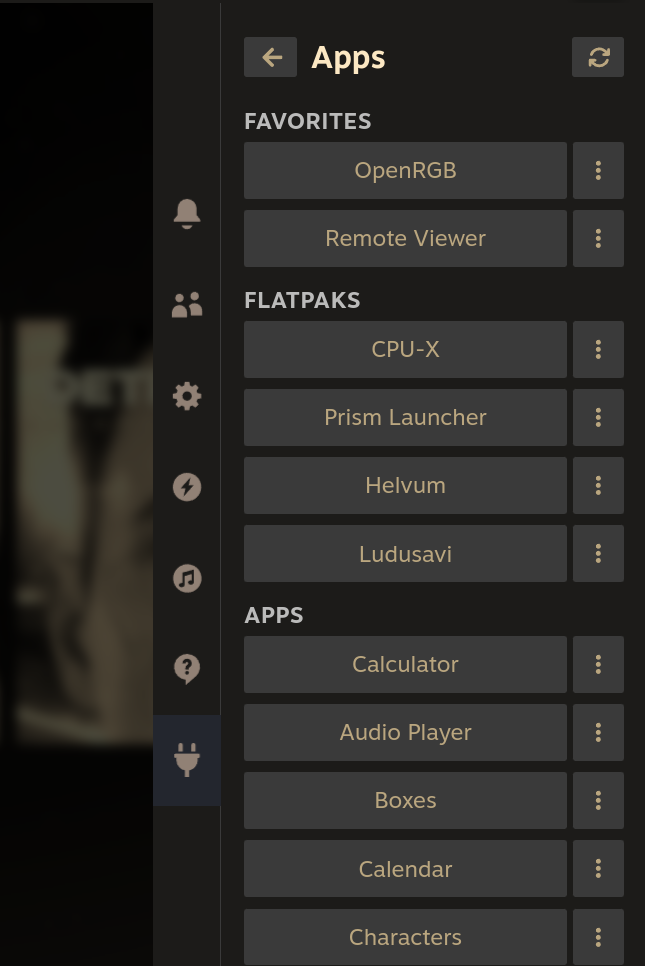
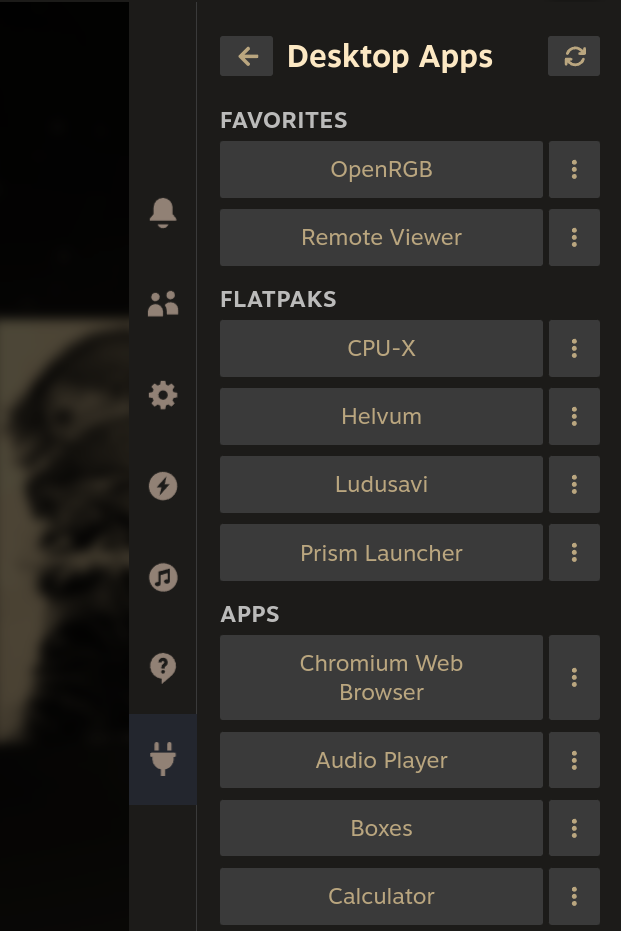
rename to decky-desktop-apps

diff --git a/src/index.tsx b/src/index.tsx
@@ -187,7 +187,7 @@ function Content() {
             );
 
             if (res2.ok)
-                toaster.toast({title: "Apps", body: "Shortcut created", critical: true});
+                toaster.toast({title: "Desktop Apps", body: "Shortcut created", critical: true});
             else
                 await tryOrToastAssert(removeShortcut, "Failed to remove new shortcut!", assertBool, res.result!.appId);
         } else if (!add && app.shortcut != null) {
@@ -233,7 +233,7 @@ function TitleView() {
     const [disabled, setDisabled] = useState(false);
     return (
         <Focusable style={{display: "flex", padding: 0, width: "100%", justifyContent: "space-between", paddingTop: "4px", paddingBottom: "4px"}}>
-            <div className={staticClasses.Title} style={{padding: 0}}>Apps</div>
+            <div className={staticClasses.Title} style={{padding: 0}}>Desktop Apps</div>
             <DialogButton
                 style={{height: '28px', width: '37px', minWidth: 0, padding: '10px 11px'}}
                 disabled={disabled}
@@ -252,7 +252,7 @@ function TitleView() {
 export default definePlugin(() => {
     cleanupTemporaryShortcuts();
     return {
-        name: "Apps",
+        name: "Desktop Apps",
         titleView: <TitleView/>,
         content: <Content/>,
         icon: <IoAppsSharp/>,

diff --git a/src/utils.tsx b/src/utils.tsx
@@ -1,7 +1,7 @@
 import {toaster} from "@decky/api";
 import Logger from "@decky/ui/dist/logger";
 
-export const logger = new Logger("Apps");
+export const logger = new Logger("DesktopApps");
 
 type TryOrToastResult<T> = {ok: true, result: T} | {ok: false, result: undefined};
 export async function tryOrToast<T, A extends unknown[]>(
@@ -13,7 +13,7 @@ export async function tryOrToast<T, A extends unknown[]>(
         return {ok: true, result: await callback(...args)};
     } catch (e) {
         logger.error(msg, e);
-        toaster.toast({title: "Apps", body: msg, critical: true});
+        toaster.toast({title: "Desktop Apps", body: msg, critical: true});
         return {ok: false, result: undefined};
     }
 }
@@ -26,7 +26,7 @@ export async function tryOrToastAssert<T, A extends unknown[]>(
     const res = await tryOrToast(callback, msg, ...args);
     if (res.ok && !assert(res.result)) {
         logger.error(msg, "assertion failed", res)
-        toaster.toast({title: "Apps", body: msg, critical: true});
+        toaster.toast({title: "Desktop Apps", body: msg, critical: true});
         return {ok: false, result: undefined};
     }
 

diff --git a/README.md b/README.md
@@ -1,10 +1,10 @@
-## decky-apps
+## decky-desktop-apps
 
 Run your desktop apps from game mode without switching to desktop.
 
 ### Features
 
-- **Browse all apps** — discovers apps from `.desktop` files across system and user directories, including Flatpaks
+- **Browse all apps** — discovers `.desktop` files across system and user directories, including Flatpaks
 - **One-shot launch** — opens an app as a temporary shortcut that is automatically cleaned up after closing
 - **Persistent shortcuts** — add apps to your Steam library for quick access without going through the plugin
 - **Favorites** — pin frequently used apps to the top of the list
@@ -15,7 +15,7 @@ Run your desktop apps from game mode without switching to desktop.
 ### Build
 
 ```sh
-make       # install deps, build, and package into build/decky-volume-mixer.zip
+make       # install deps, build, and package into build/decky-desktop-apps.zip
 make build # install deps and build without packaging
 make clean # remove dist and build directories
 ```
